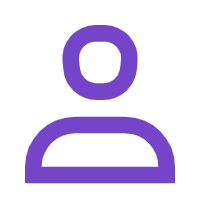
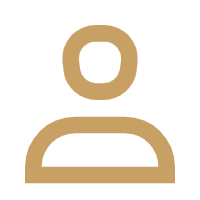
fix:评优分组完成

Changed region(s): [[0.12, 0.57, 0.9, 0.93], [0.3, 0.12, 0.69, 0.51]]

diff --git a/src/pages/goodGroup/index.tsx b/src/pages/goodGroup/index.tsx
@@ -1,0 +1,105 @@
+import { View, ScrollView } from "@tarojs/components";
+import { AtCard } from "taro-ui";
+import { useEffect, useState } from "react";
+import Taro, { useDidShow } from "@tarojs/taro";
+import { request } from "@/utils/request";
+import { useRequest } from "taro-hooks";
+import NoData from "@/components/noData";
+import "./index.less";
+
+const GoodGroup = () => {
+  const [semesterList, setList] = useState<any[]>([]);
+  const [loading, setLoading] = useState(false);
+  const [pageNation, setPageNation] = useState({
+    pageSize: 10,
+    pageIndex: 1
+  });
+  const [total, setTotal] = useState(0);
+  //请求类
+  const { run } = useRequest(request, {
+    manual: true,
+    debounceInterval: 500,
+    onSuccess: ({ data }) => {
+      if (data) {
+        setList([...semesterList, ...data.list]);
+        setTotal(data.total);
+        if (loading) {
+          setLoading(false);
+        }
+      }
+    }
+  });
+  const renderList = () => {
+    if (semesterList && semesterList.length <= 0) {
+      return <NoData />;
+    }
+    const list = semesterList.map((item, index) => (
+      <>
+        <View className='divider'></View>
+        <View key={index} className='semester-card'>
+          <AtCard
+            extra={`照片数:${item.wechatUserWorkPhotos.length}`}
+            title={item.groupName}
+            onClick={() => {
+              Taro.navigateTo({url:`/pages/goodImgList/index?id=${item.id}`});
+            }}
+          >
+            {item.groupDescript}
+          </AtCard>
+        </View>
+      </>
+    ));
+    if (total < pageNation.pageIndex * pageNation.pageSize) {
+      list.push(<View className='no-moredate'>没有更多啦...</View>);
+    }
+    return list;
+  };
+  //effect
+  useEffect(() => {
+    const getList = parmas => {
+      run("/good-group", "GET", parmas, false);
+    };
+    getList(pageNation);
+  }, [pageNation]);
+  useDidShow(() => {
+    setLoading(true);
+    setList([]);
+    setPageNation({
+      pageSize: 10,
+      pageIndex: 1
+    });
+  });
+  return (
+    <View className='good-group'>
+      <ScrollView
+        className='scrollview'
+        scrollY
+        scrollAnchoring
+        refresher-enabled
+        refresher-threshold={80}
+        refresher-default-style='black'
+        refresher-triggered={loading}
+        onRefresherRefresh={() => {
+          setLoading(true);
+          setList([]);
+          setPageNation({
+            pageSize: 10,
+            pageIndex: 1
+          });
+        }}
+        onScrollToLower={() => {
+          if (total >= pageNation.pageIndex * pageNation.pageSize) {
+            setPageNation({
+              ...pageNation,
+              pageIndex: pageNation.pageIndex + 1
+            });
+          }
+        }}
+      >
+        {renderList()}
+      </ScrollView>
+    </View>
+  );
+};
+
+export default GoodGroup;

diff --git a/src/pages/goodImgList/index.tsx b/src/pages/goodImgList/index.tsx
@@ -1,0 +1,53 @@
+import { View } from "@tarojs/components";
+import { AtGrid } from "taro-ui";
+import { useEffect, useState } from "react";
+import Taro, { useDidShow, useRouter } from "@tarojs/taro";
+import { request } from "@/utils/request";
+import { useRequest } from "taro-hooks";
+import "./index.less";
+
+const GoodGroup = () => {
+  const route = useRouter();
+  const [semesterList, setList] = useState<any[]>([]);
+  const [loading, setLoading] = useState(false);
+  //请求类
+  const { run } = useRequest(request, {
+    manual: true,
+    debounceInterval: 500,
+    onSuccess: ({ data }) => {
+      if (data) {
+        data.wechatUserWorkPhotos = data.wechatUserWorkPhotos.map(item => {
+          item.image = item.photoUrl;
+          item.value = item.photoDescript;
+          return item;
+        });
+        setList([...semesterList, ...data.wechatUserWorkPhotos]);
+        if (loading) {
+          setLoading(false);
+        }
+      }
+    }
+  });
+  const getList = id => {
+    run(`/good-group/${id}`, "GET", undefined, false);
+  };
+  //预览模板图片
+  const previewTemImage = item => {
+    Taro.previewImage({
+      current: item.photoUrl,
+      urls: [item.photoUrl]
+    });
+  };
+  useDidShow(() => {
+    getList(route.params.id);
+    setLoading(true);
+    setList([]);
+  });
+  return (
+    <View className='img-list'>
+      <AtGrid onClick={previewTemImage} data={semesterList} />
+    </View>
+  );
+};
+
+export default GoodGroup;

diff --git a/src/app.config.ts b/src/app.config.ts
@@ -10,18 +10,20 @@ export default {
     "pages/paySuccess/index",
     "pages/aboutUs/index",
     "pages/aboutClass/index",
-    "pages/showStudent/index"
+    "pages/showStudent/index",
+    "pages/goodGroup/index",
+    "pages/goodImgList/index"
   ],
   window: {
     backgroundTextStyle: "light",
     navigationBarTitleText: "牙美啦",
     navigationBarTextStyle: "white",
-    navigationBarBackgroundColor: "#7445c9"
+    navigationBarBackgroundColor: "#c8a063"
   },
   tabBar: {
     color: "#333333",
     backgroundColor: "#fafafa",
-    selectedColor: "#7445c9",
+    selectedColor: "#c8a063",
     borderStyle: "white",
     list: [
       {

diff --git a/src/pages/home/index.tsx b/src/pages/home/index.tsx
@@ -34,8 +34,8 @@ const Home = () => {
       case "关于课程":
         Taro.navigateTo({ url: "/pages/aboutClass/index" });
         break;
-      case "学员展示":
-        Taro.navigateTo({ url: "/pages/showStudent/index" });
+      case "优秀作品":
+        Taro.navigateTo({ url: "/pages/goodGroup/index" });
         break;
       case "联系我们":
         break;
@@ -49,7 +49,7 @@ const Home = () => {
       <Swiper
         className='banner-list'
         indicatorColor='#999'
-        indicatorActiveColor='#7445c9'
+        indicatorActiveColor='#c8a063'
         circular
         indicatorDots
         autoplay

diff --git a/src/pages/goodGroup/index.less b/src/pages/goodGroup/index.less
@@ -1,0 +1,16 @@
+.good-group {
+    width: 100%;
+    height: 100%;
+    .scrollview {
+      height: 100%;
+      .divider {
+        height: 24px;
+      }
+      .no-moredate {
+        padding: 24px;
+        text-align: center;
+        color: #909399;
+      }
+    }
+  }
+  

diff --git a/src/pages/goodImgList/index.less b/src/pages/goodImgList/index.less
@@ -1,0 +1,10 @@
+.img-list {
+    width: 100%;
+    height: 100%;
+    background-color: #fff;
+    .content-inner__img{
+      width: 200px;
+      height: 200px;
+    }
+  }
+  

diff --git a/src/pages/mine/index.less b/src/pages/mine/index.less
@@ -20,7 +20,7 @@
   }
   .top-bg{
     height: 88px;
-    background-color: #7445c9;
+    background-color: #c8a063;
     margin-bottom: 144px;
   }
   .top-user{

diff --git a/src/taroStyle/custom-variables.scss b/src/taroStyle/custom-variables.scss
@@ -1,3 +1,3 @@
-$color-brand: #7445c9;
+$color-brand: #c8a063;
 /* 引入 Taro UI 默认样式 */
 @import "~taro-ui/dist/style/index.scss";

diff --git a/src/pages/login/index.less b/src/pages/login/index.less
@@ -38,6 +38,6 @@
     margin-top: 48px;
     font-size: 24px;
     text-align: center;
-    color: #7445c9;
+    color: #c8a063;
   }
 }

diff --git a/src/pages/goodGroup/index.config.ts b/src/pages/goodGroup/index.config.ts
@@ -1,0 +1,3 @@
+export default {
+  navigationBarTitleText: "优秀作品"
+};

diff --git a/src/pages/goodImgList/index.config.ts b/src/pages/goodImgList/index.config.ts
@@ -1,0 +1,3 @@
+export default {
+  navigationBarTitleText: "作品展示"
+};
